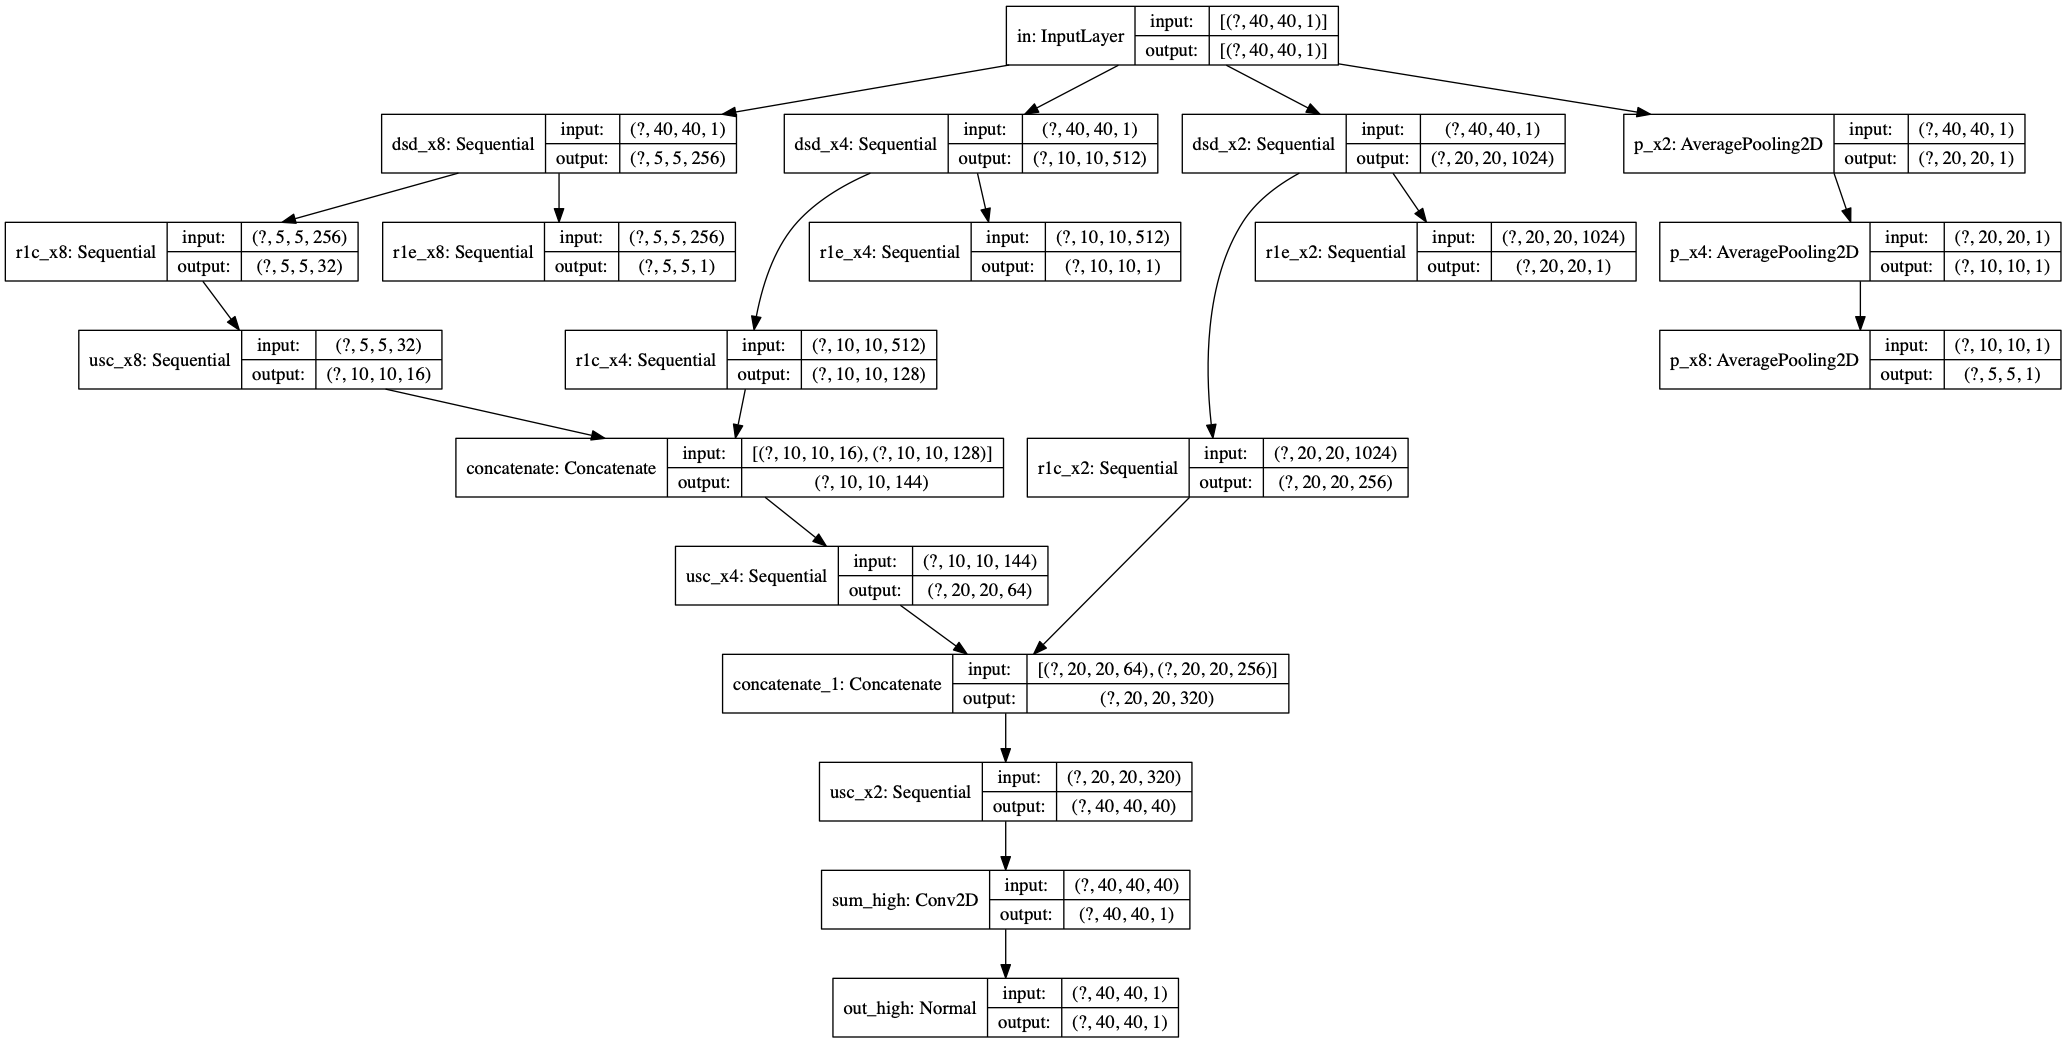
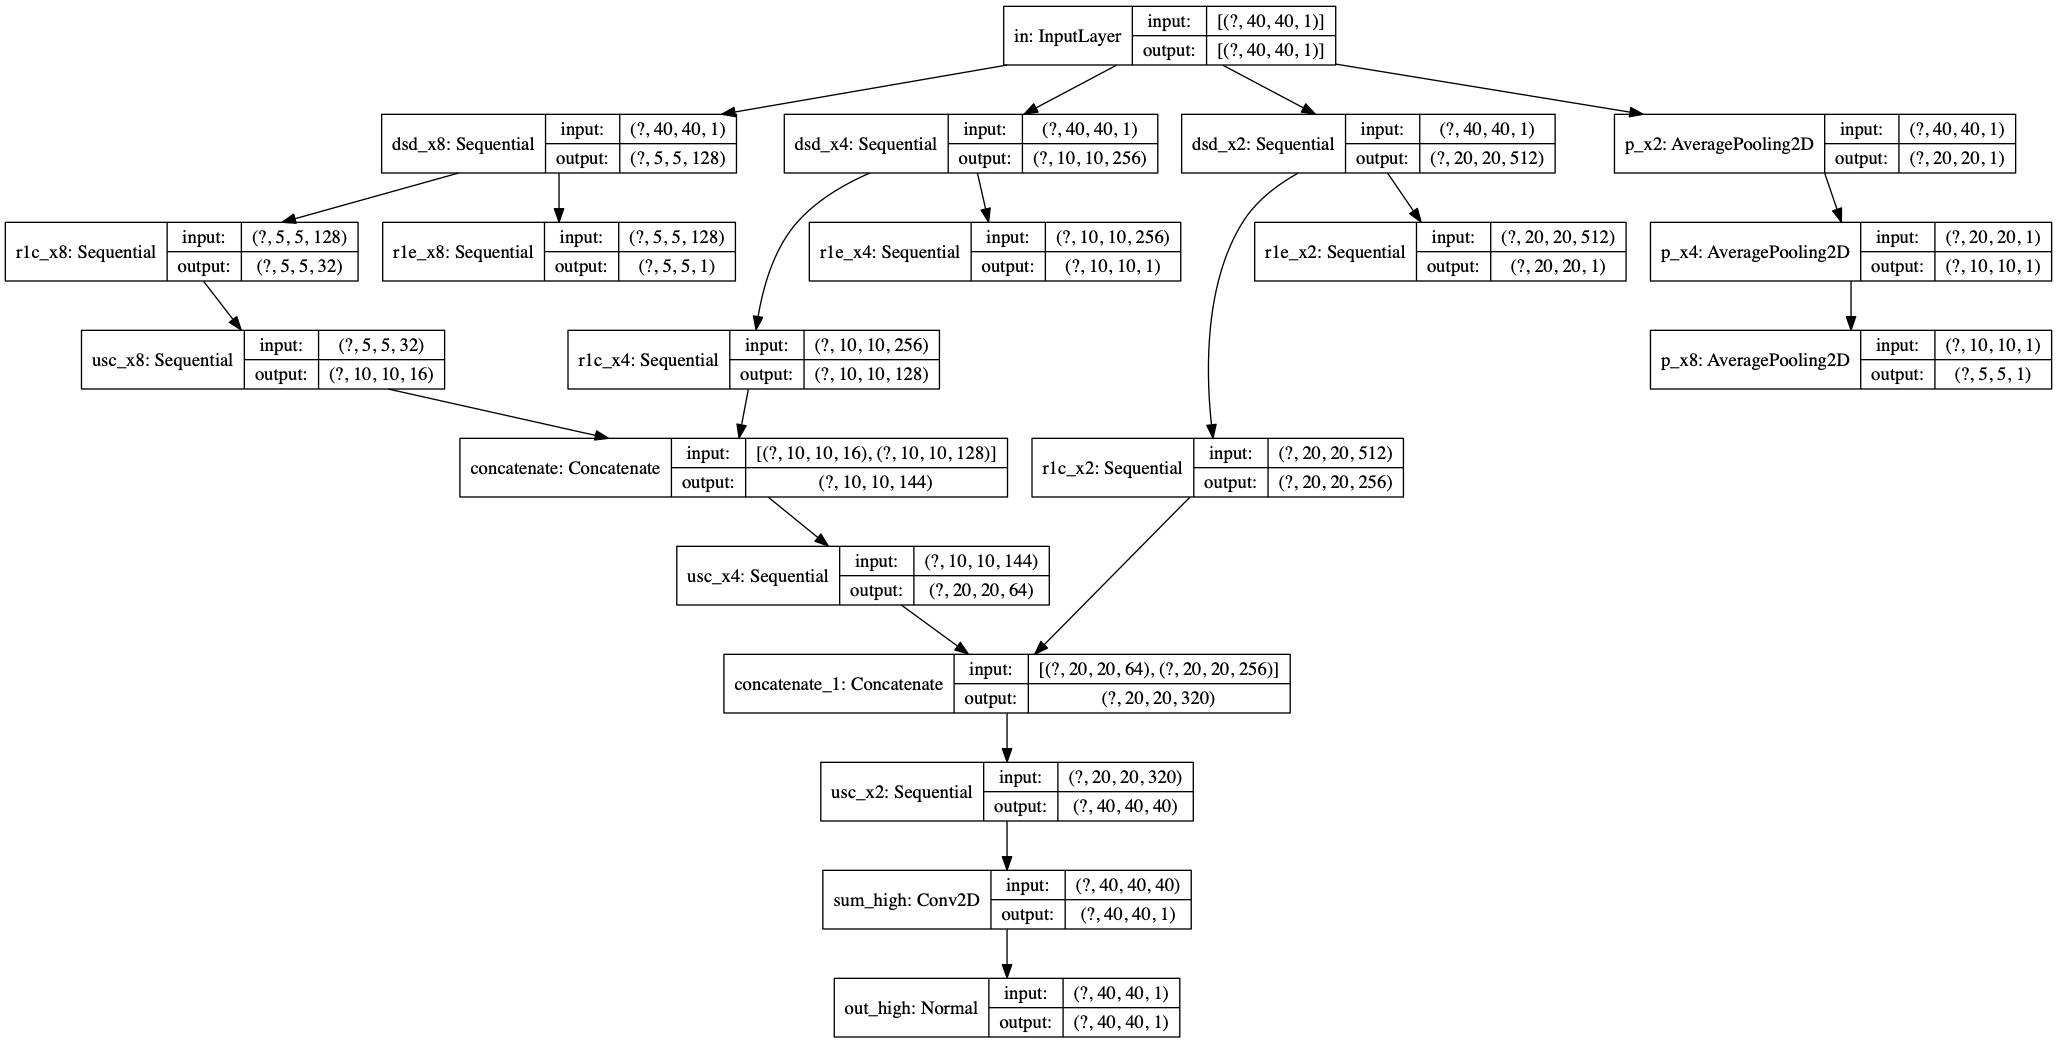
update less parameters

diff --git a/model.py b/model.py
@@ -247,13 +247,13 @@ def make_generator_model(len_high_size=128, scale=4):
         pool_size=(2, 2), strides=2, padding='valid', name='p_x8')(low_x4)
 
     dsd_x8 = block_downsample_decomposition(len_low_size=len_low_size_x8, input_len_size=len_high_size,
-                                            input_channels=1, downsample_ratio=8, filters_decompose=256, name='dsd_x8')
+                                            input_channels=1, downsample_ratio=8, filters_decompose=128, name='dsd_x8')
     rech_x8 = dsd_x8(inp)
     r1c = block_rank1channels_convolution(
-        filters=32, input_len_size=len_low_size_x8, input_channels=256, name='r1c_x8')
+        filters=32, input_len_size=len_low_size_x8, input_channels=128, name='r1c_x8')
     sym_x8 = r1c(rech_x8)
     r1e = block_rank1_estimation(
-        dims=len_low_size_x8, input_len_size=len_low_size_x8, input_channels=256, name='r1e_x8')
+        dims=len_low_size_x8, input_len_size=len_low_size_x8, input_channels=128, name='r1e_x8')
     out_low_x8 = r1e(rech_x8)
 
     usc_x8 = block_upsample_convolution(
@@ -261,13 +261,13 @@ def make_generator_model(len_high_size=128, scale=4):
     sym_x8 = usc_x8(sym_x8)
 
     dsd_x4 = block_downsample_decomposition(len_low_size=len_low_size_x4, input_len_size=len_high_size,
-                                            input_channels=1, downsample_ratio=4, filters_decompose=512, name='dsd_x4')
+                                            input_channels=1, downsample_ratio=4, filters_decompose=256, name='dsd_x4')
     rech_x4 = dsd_x4(inp)
     r1c = block_rank1channels_convolution(
-        filters=128, input_len_size=len_low_size_x4, input_channels=512, name='r1c_x4')
+        filters=128, input_len_size=len_low_size_x4, input_channels=256, name='r1c_x4')
     sym_x4 = r1c(rech_x4)
     r1e = block_rank1_estimation(
-        dims=len_low_size_x4, input_len_size=len_low_size_x4, input_channels=512, name='r1e_x4')
+        dims=len_low_size_x4, input_len_size=len_low_size_x4, input_channels=256, name='r1e_x4')
     out_low_x4 = r1e(rech_x4)
 
     concat = tf.keras.layers.concatenate([sym_x8, sym_x4], axis=-1)
@@ -277,13 +277,13 @@ def make_generator_model(len_high_size=128, scale=4):
     sym_x4 = usc_x4(concat)
 
     dsd_x2 = block_downsample_decomposition(len_low_size=len_low_size_x2, input_len_size=len_high_size,
-                                            input_channels=1, downsample_ratio=2, filters_decompose=1024, name='dsd_x2')
+                                            input_channels=1, downsample_ratio=2, filters_decompose=512, name='dsd_x2')
     rech_x2 = dsd_x2(inp)
     r1c_x2 = block_rank1channels_convolution(
-        filters=256, input_len_size=len_low_size_x2, input_channels=1024, name='r1c_x2')
+        filters=256, input_len_size=len_low_size_x2, input_channels=512, name='r1c_x2')
     sym_x2 = r1c_x2(rech_x2)
     r1e_x2 = block_rank1_estimation(
-        dims=len_low_size_x2, input_len_size=len_low_size_x2, input_channels=1024, name='r1e_x2')
+        dims=len_low_size_x2, input_len_size=len_low_size_x2, input_channels=512, name='r1e_x2')
     out_low_x2 = r1e_x2(rech_x2)
 
     concat = tf.keras.layers.concatenate([sym_x4, sym_x2], axis=-1)

diff --git a/train.py b/train.py
@@ -114,7 +114,7 @@ if __name__ == '__main__':
         hic_lr = np.asarray(hic_lr).astype(np.float32)
         hic_hr = np.asarray(hic_hr).astype(np.float32)
         train_data = tf.data.Dataset.from_tensor_slices(
-            (hic_lr[..., np.newaxis], hic_hr[..., np.newaxis])).batch(BATCH_SIZE)
+            (hic_lr[0::3,..., np.newaxis], hic_hr[0::3,..., np.newaxis])).batch(BATCH_SIZE)
         test_data = tf.data.Dataset.from_tensor_slices(
             (hic_lr[0:9, ..., np.newaxis], hic_hr[0:9, ..., np.newaxis])).batch(BATCH_SIZE)
         run(train_data=train_data, test_data=test_data,
